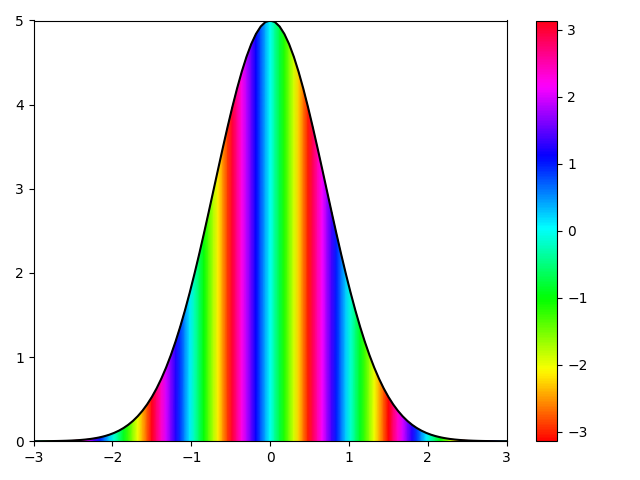
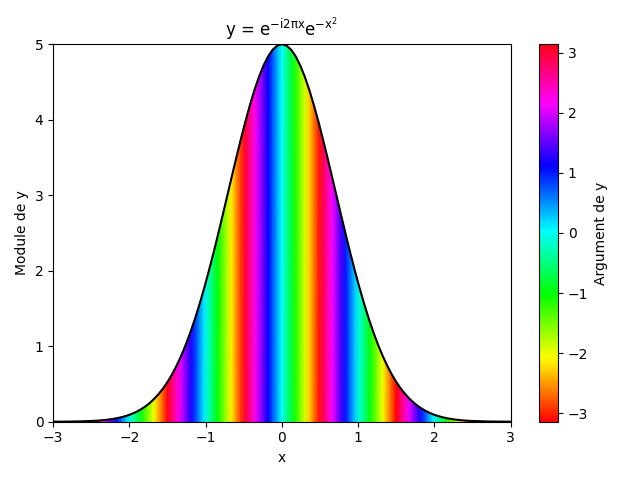
improved code

diff --git a/TP7/TP7-c.py b/TP7/TP7-c.py
@@ -13,9 +13,17 @@ Y = np.array([y0,y])
 Z = np.array([z,z])
 C = np.angle(Z)
 
+# Affichages des informations du graph
+plt.rcParams.update({'mathtext.default': 'regular' })  # Activer la synthax LateX
+plt.title("y = $e^{-i2 \pi x}  e^{-x^{2}}$")
+plt.xlabel("x")
+plt.ylabel("Module de y")
+
+# Affichage du module
 plt.plot(x, y, "k")
 
+# Affichage de l'argument
 plt.pcolormesh(X, Y, C, shading="gouraud", cmap=plt.cm.hsv, vmin=-np.pi, vmax=np.pi)
-plt.colorbar()
+plt.colorbar().set_label("Argument de y")
 
 plt.show()

diff --git a/TP7/TP7-b.py b/TP7/TP7-b.py
@@ -2,6 +2,7 @@ import matplotlib.pyplot as plt
 import matplotlib.animation as animation
 import numpy as np
 
+# Calcule des Coordonnées
 x = np.linspace(-3, 13, 161)
 dt = 0.1
 
@@ -13,10 +14,10 @@ plt.ylim(-1, 1.5)
 
 def animate(i):
     t = i * dt
-    y = 1 / (1 + (x - 4.8*t)**2)
+    y = 1 / (1 + (x - 4.8*t)**2)  # Expression de la fonction
     line.set_data(x, y)
     return line,
 
-
+# Animation
 ani = animation.FuncAnimation(fig, animate,  frames=41, interval=20, repeat=False)
 plt.show()
